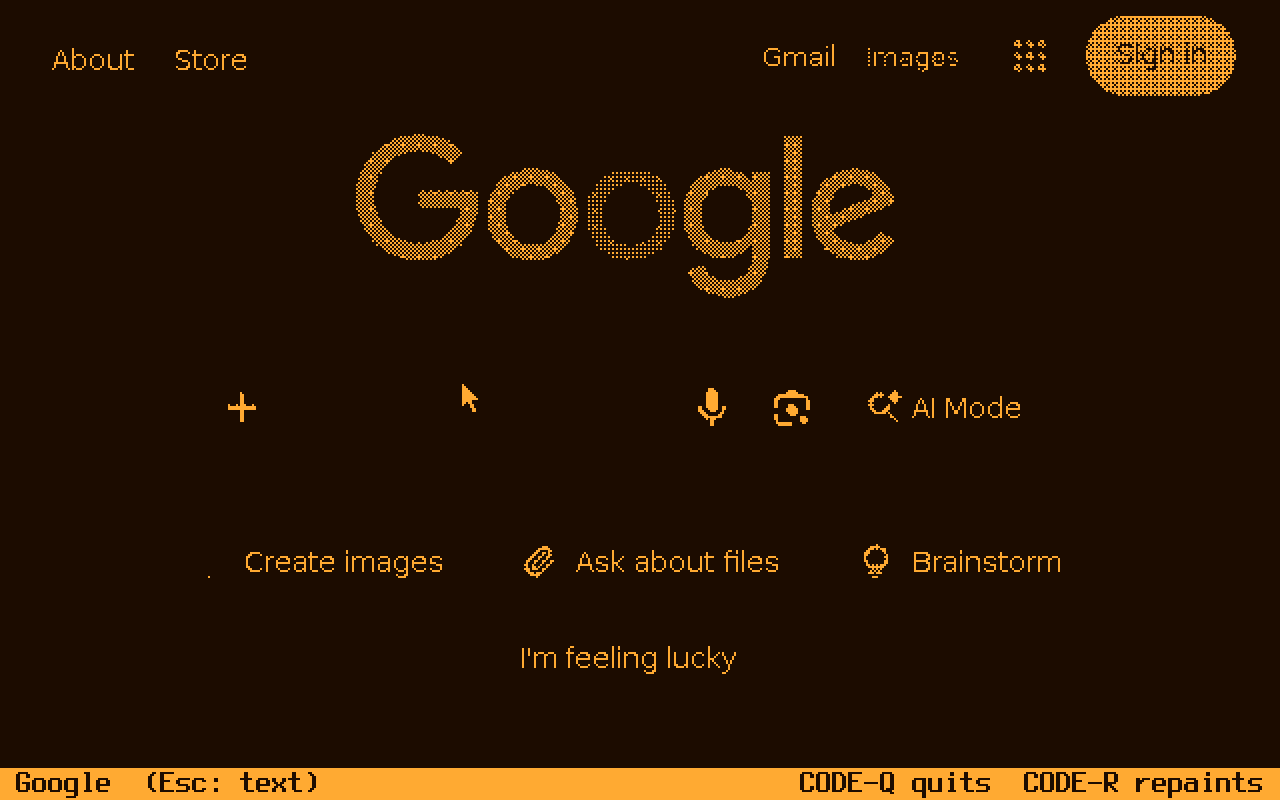
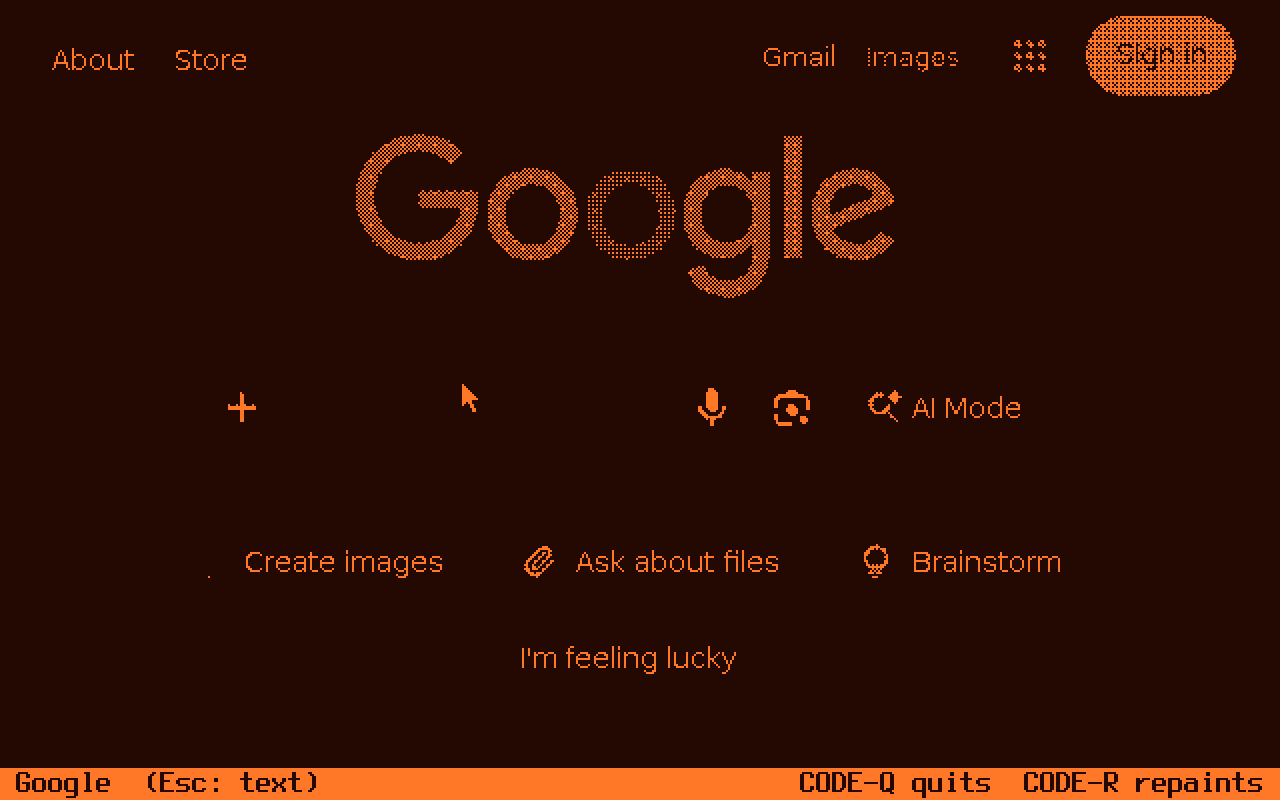
Screenshots in the 1520 plasma's own orange
The emulators' PNGs (pcemu, grid_emu, mksplash's preview) use (255,120,40)
on (36,8,2), matched to a photo of the panel, instead of amber on brown.
All README shots retaken (now on 0.6); the two captures from the 1520 are
recoloured the same way. The kernel's own BMP palette is unchanged.

Claude-Session: https://claude.ai/code/session_013MZEeNd6VhdEvcRVmaRZT5

diff --git a/claude-link/tests/grid_emu.py b/claude-link/tests/grid_emu.py
@@ -764,13 +764,13 @@ class Machine:
                 for xb in range(80):
                     v = vram[base + xb]
                     for b in range(8):
-                        px[xb * 8 + b, y] = (255, 170, 50) if v & (0x80 >> b) else (28, 12, 0)
+                        px[xb * 8 + b, y] = (255, 120, 40) if v & (0x80 >> b) else (36, 8, 2)
             im = im.resize((640 * scale // 2 * 2, 400 * scale // 2 * 2), Image.NEAREST)
         else:
             from PIL import ImageDraw
-            im = Image.new('RGB', (640, 400), (28, 12, 0)); d = ImageDraw.Draw(im)
+            im = Image.new('RGB', (640, 400), (36, 8, 2)); d = ImageDraw.Draw(im)
             for i, line in enumerate(s.text_screen().split('\n')):
-                d.text((0, i * 16), line, fill=(255, 170, 50))
+                d.text((0, i * 16), line, fill=(255, 120, 40))
         im.save(path)
 
     def text_screen(s):

diff --git a/os/splash/mksplash.py b/os/splash/mksplash.py
@@ -256,7 +256,7 @@ def pack(poly, nails):
 def amber_png(scr, path, scale=2):
     from PIL import Image
     img = Image.new('RGB', (W, H))
-    img.putdata([(255, 170, 50) if v else (28, 12, 0) for row in scr for v in row])
+    img.putdata([(255, 120, 40) if v else (36, 8, 2) for row in scr for v in row])
     if scale != 1:
         img = img.resize((W * scale, H * scale), Image.NEAREST)
     img.save(path)

diff --git a/os/pcemu.py b/os/pcemu.py
@@ -1120,7 +1120,7 @@ class PC:
 
     def png(s, path, font=None, scale=2):
         from PIL import Image
-        AMB, BG = (255, 170, 50), (28, 12, 0)
+        AMB, BG = (255, 120, 40), (36, 8, 2)
         m = s.mode()
         if m in (0x40, 0x48, 0x74):
             vram = s.rd(0xB800, 0, 0x8000)

diff --git a/README.md b/README.md
@@ -21,7 +21,7 @@ Lodestone also connects the GRiD to Claude. Through a Raspberry Pi on the GPIB b
 | ![gridfox, text view](os/screens/readme/gridfox.png) | ![gridfox, picture view](os/screens/readme/gridfox_picture.png) |
 | gridfox (`CLAUDE /W`): Firefox on the Pi, browsed from the GRiD as text | **On the real 1520:** gridfox's picture view, the page as Firefox draws it, in one bit (Esc goes back to text) |
 
-*Screenshots from the emulator (`os/screens/readme_shots.py` and `claude-link/tests/readme_shots.py`), drawn as the 1520's amber plasma shows them. In the Claude Code and gridfox text shots the session is scripted, standing in for Claude Code and Firefox; the GRiD side and the link are the real ones. The plot and the picture view are captures from the real 1520.*
+*Screenshots from the emulator (`os/screens/readme_shots.py` and `claude-link/tests/readme_shots.py`), in the colours of the 1520's orange plasma (the captures from the real 1520 too). In the Claude Code and gridfox text shots the session is scripted, standing in for Claude Code and Firefox; the GRiD side and the link are the real ones. The plot and the picture view are captures from the real 1520.*
 
 ## What's in it
 
